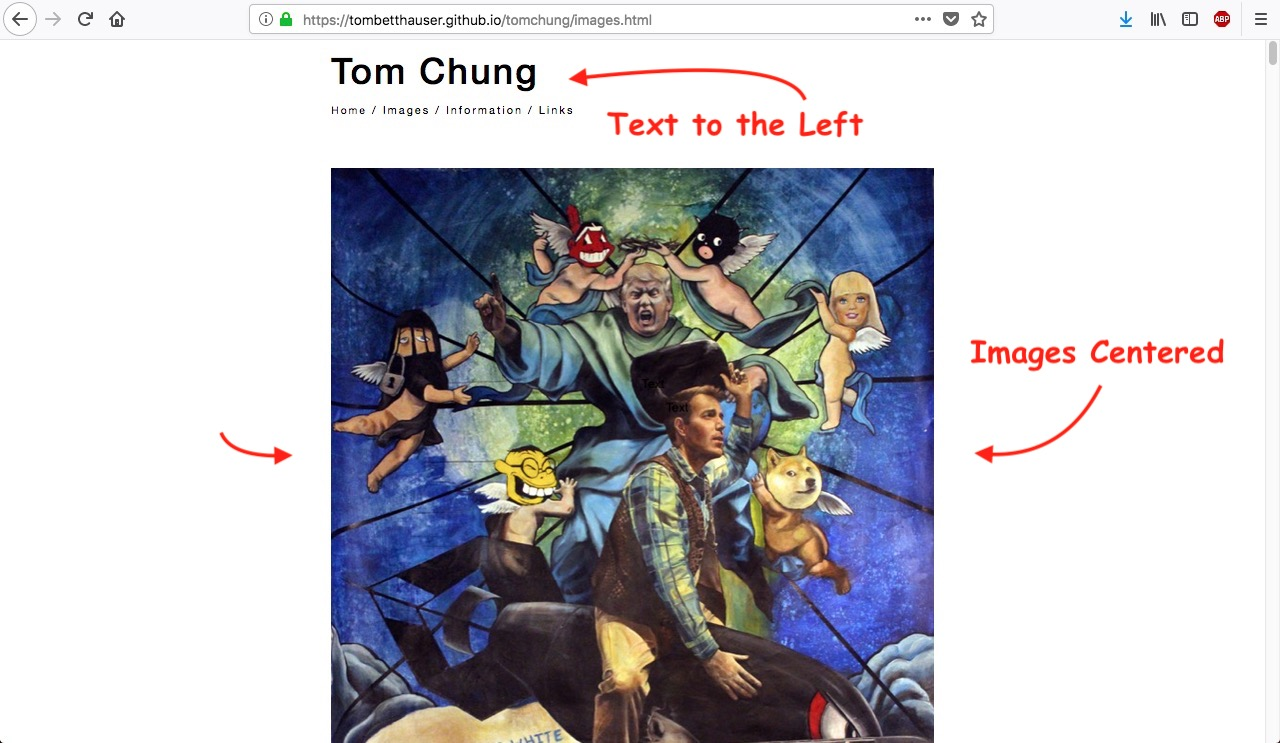
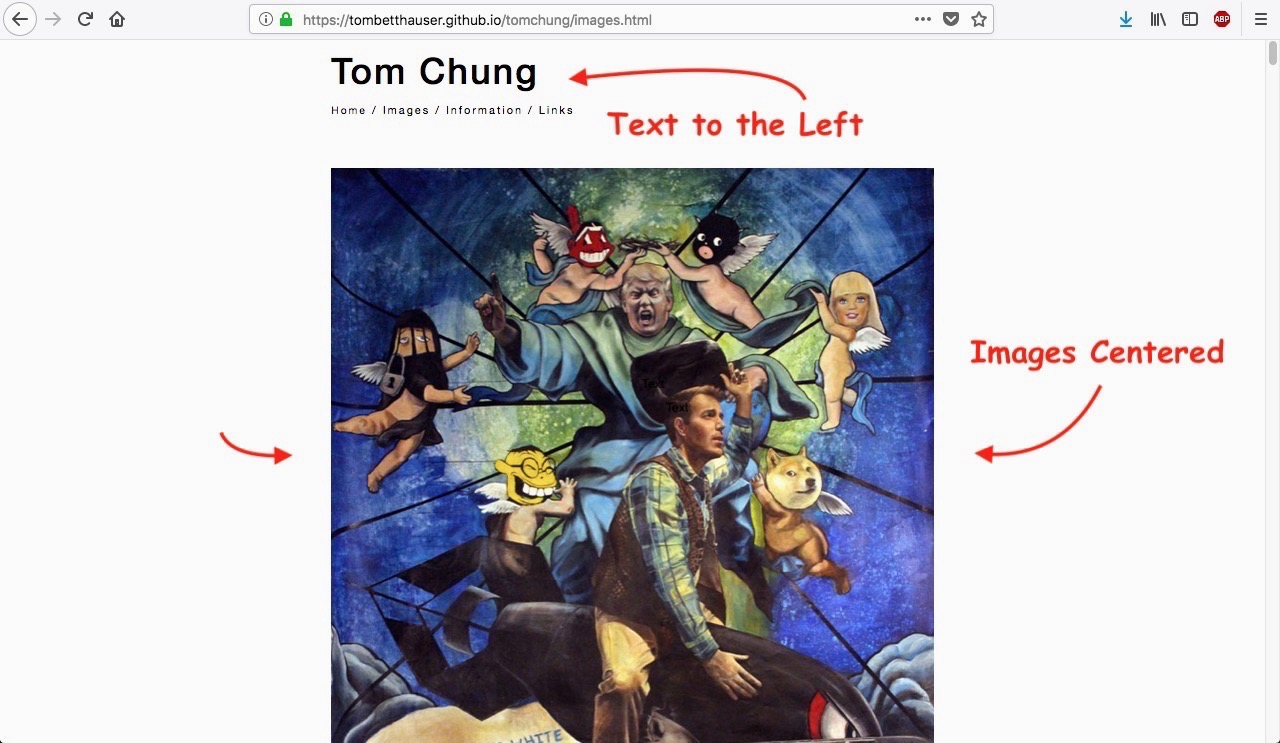
Tweaked :hover's
on text, images & btns.

diff --git a/app.css b/app.css
@@ -55,12 +55,13 @@ h1, h2, h3, h4, h5, h6, .h1, .h2, .h3, .h4, .h5, .h6 {
   letter-spacing: 2px;
 }
 
-nav a {
-  color: red;
+a h1 {
+  transition: .2s;
 }
 
 a h1:hover {
   opacity: .8;
+  transition: .3s;
 }
 
 #t-nav-links a:hover {
@@ -95,6 +96,15 @@ a h1:hover {
   width: 100%;
   box-shadow: 3px 3px 3px rgba(0,0,0,0.2),
               5px 5px 25px rgba(0,0,0,0.1);
+  transition: .1s;
+
+}
+
+#t-thumbnail:hover {
+    opacity: .9;
+    box-shadow: 3px 3px 3px rgba(0,0,0,0.3),
+              5px 5px 25px rgba(0,0,0,0.2);
+    transition: .2s;
 }
 
 #t-image-row-margin {
@@ -277,4 +287,12 @@ p.t-checkboxes {
   display: block;
   width: 175px;
   margin: 30px auto;
+}
+
+.btn {
+  transition: .2s;
+}
+
+.btn:hover {
+  transition: .2s;
 }
